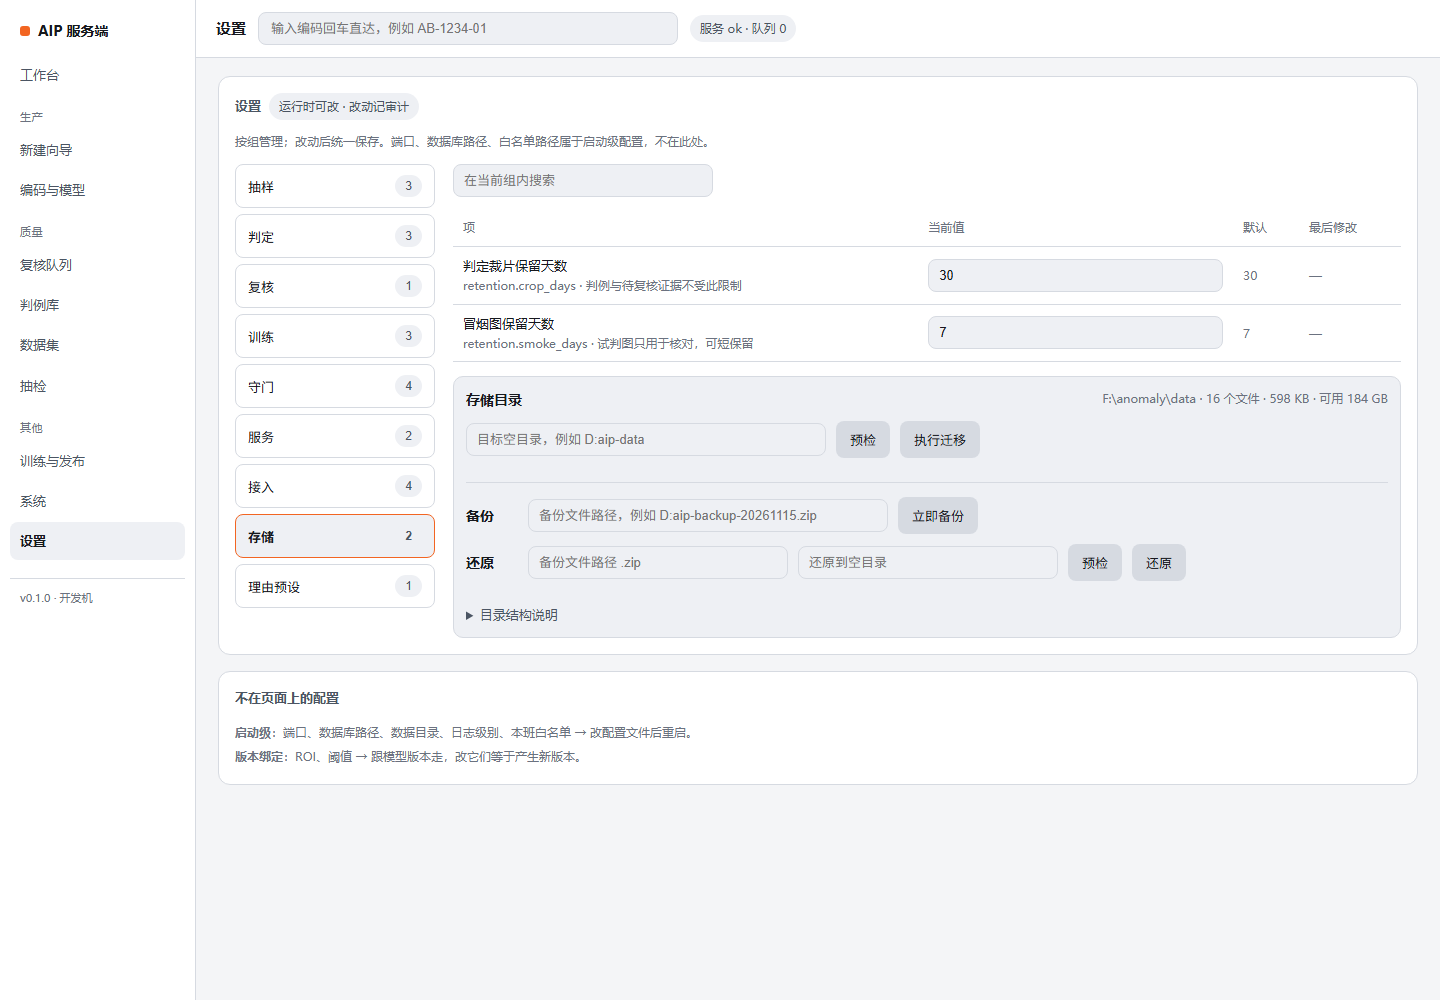
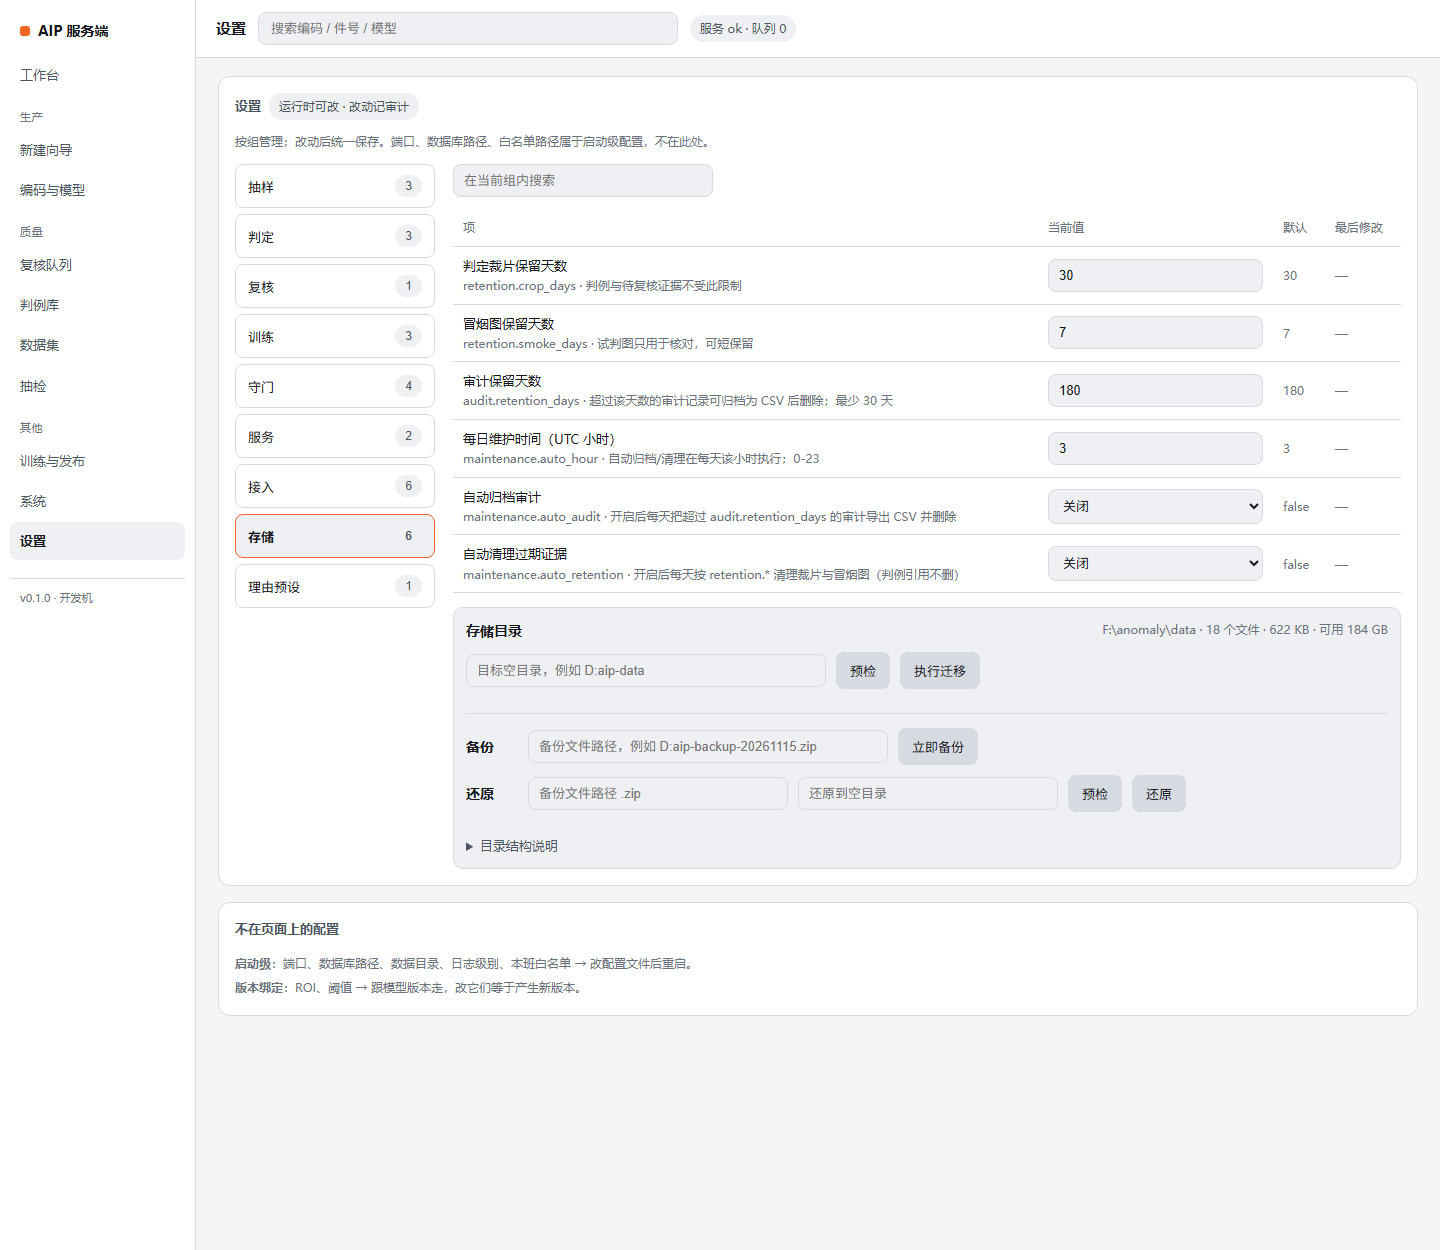
feat: 每日维护任务（自动归档/自动清理）与开关；存储迁移期间跳过

diff --git a/aip/web/admin.html b/aip/web/admin.html
@@ -354,7 +354,7 @@ const ACTIONS = {
   "case.archive": "归档判例", "case.restore": "恢复判例", "case.conflict": "判例冲突",
   "setting.update": "修改设置", "setting.bulk_update": "批量修改设置",
   "storage.backup": "备份数据", "storage.move": "迁移存储", "storage.restore": "还原数据",
-  "storage.retention": "清理过期证据", "audit.archive": "归档审计", "audit.import": "导入归档", "train.start": "启动训练", "train.cancel": "取消训练",
+  "storage.retention": "清理过期证据", "audit.archive": "归档审计", "audit.import": "导入归档", "maintenance.auto": "自动维护", "train.start": "启动训练", "train.cancel": "取消训练",
   "model.rollback": "回滚版本", "model.archive": "归档模型", "model.patch": "模型改名",
   "code.patch": "修改编码", "code.active": "启用/停用编码",
   "code.archive": "归档编码", "code.restore": "恢复编码", "family.create": "新建族",

diff --git a/aip/src/aip/maintenance_task.py b/aip/src/aip/maintenance_task.py
@@ -1,0 +1,106 @@
+"""每日维护任务：审计归档 + 过期证据清理。
+
+开关在「设置 → 存储」：
+- maintenance.auto_audit      自动归档审计（默认关）
+- maintenance.auto_retention  自动清理过期证据（默认关）
+- maintenance.auto_hour       每天几点执行（UTC，默认 3）
+
+只在 dev_server 启动时拉起一个守护线程；测试直接调 run_once，不启线程。
+"""
+
+from __future__ import annotations
+
+import sqlite3
+import threading
+import time
+from datetime import datetime, timedelta, timezone
+from pathlib import Path
+
+from . import audit_archive, retention
+from .audit import record
+from .settings import get_value
+from .storage import is_locked
+from .store import connect, tx
+
+
+def next_run(now: datetime, hour: int) -> datetime:
+    hour = max(0, min(23, hour))
+    target = now.replace(hour=hour, minute=0, second=0, microsecond=0)
+    if target <= now:
+        target += timedelta(days=1)
+    return target
+
+
+def run_once(conn: sqlite3.Connection, data_dir: Path, actor: str = "maintenance") -> dict:
+    if is_locked():
+        return {"skipped": "storage_maintenance"}
+
+    result: dict = {}
+    if bool(get_value(conn, "maintenance.auto_audit")):
+        try:
+            out = audit_archive.archive(
+                conn, data_dir, days=int(get_value(conn, "audit.retention_days")), actor=actor
+            )
+            result["audit_archived"] = out["archived"]
+            result["audit_path"] = out["path"]
+        except Exception as exc:  # noqa: BLE001
+            result["audit_error"] = str(exc)
+
+    if bool(get_value(conn, "maintenance.auto_retention")):
+        try:
+            out = retention.apply(
+                conn,
+                data_dir,
+                crop_days=int(get_value(conn, "retention.crop_days")),
+                smoke_days=int(get_value(conn, "retention.smoke_days")),
+                actor=actor,
+            )
+            result["retention_removed"] = out.get("removed", 0)
+            result["retention_freed"] = out.get("freed", 0)
+        except Exception as exc:  # noqa: BLE001
+            result["retention_error"] = str(exc)
+
+    if result:
+        with tx(conn):
+            record(conn, actor=actor, action="maintenance.auto", entity="data", payload=result)
+    return result
+
+
+class Scheduler(threading.Thread):
+    def __init__(self, db_path: str | Path) -> None:
+        super().__init__(daemon=True, name="aip-maintenance")
+        self.db_path = Path(db_path)
+        self._stop = threading.Event()
+
+    def stop(self) -> None:
+        self._stop.set()
+
+    def run(self) -> None:
+        while not self._stop.is_set():
+            conn = connect(self.db_path)
+            try:
+                hour = int(get_value(conn, "maintenance.auto_hour"))
+            except Exception:  # noqa: BLE001
+                hour = 3
+            conn.close()
+
+            now = datetime.now(timezone.utc)
+            wait = (next_run(now, hour) - now).total_seconds()
+            if self._stop.wait(min(wait, 3600)):
+                return
+            if wait > 3600:
+                continue  # 每小时醒一次重新计算，避免时钟漂移
+
+            conn = connect(self.db_path)
+            try:
+                run_once(conn, self.db_path.parent)
+            except Exception:  # noqa: BLE001 - 守护线程不能死
+                pass
+            finally:
+                conn.close()
+
+
+def start_scheduler(db_path: str | Path) -> Scheduler:
+    scheduler = Scheduler(db_path)
+    scheduler.start()
+    return scheduler

diff --git a/tests/test_maintenance_task.py b/tests/test_maintenance_task.py
@@ -1,0 +1,80 @@
+"""每日维护任务验收。"""
+
+from __future__ import annotations
+
+from datetime import datetime, timezone
+from pathlib import Path
+
+import pytest
+
+from aip import maintenance_task, store
+from aip.settings import set_many
+
+
+@pytest.fixture()
+def env(tmp_path):
+    data = tmp_path / "data"
+    data.mkdir()
+    conn = store.connect(data / "aip.db")
+    store.migrate(conn)
+    (data / "crops").mkdir()
+    yield conn, data
+    conn.close()
+
+
+def test_next_run_rolls_to_tomorrow():
+    now = datetime(2026, 11, 15, 10, 30, tzinfo=timezone.utc)
+    assert maintenance_task.next_run(now, 3) == datetime(2026, 11, 16, 3, tzinfo=timezone.utc)
+    assert maintenance_task.next_run(now, 23) == datetime(2026, 11, 15, 23, tzinfo=timezone.utc)
+
+
+def test_switches_off_do_nothing(env):
+    conn, data = env
+    assert maintenance_task.run_once(conn, data, actor="test") == {}
+    rows = conn.execute("SELECT count(*) c FROM audit_log").fetchone()["c"]
+    assert rows == 0
+
+
+def test_auto_audit_archives_when_enabled(env):
+    conn, data = env
+    conn.execute(
+        "INSERT INTO audit_log (actor, action, entity, created_at)"
+        " VALUES ('a','setting.update','setting','2020-01-01T00:00:00.000Z')"
+    )
+    set_many(conn, {"maintenance.auto_audit": True})
+
+    out = maintenance_task.run_once(conn, data, actor="test")
+    assert out["audit_archived"] == 1
+    assert Path(out["audit_path"]).exists()
+
+    actions = [r["action"] for r in conn.execute("SELECT action FROM audit_log").fetchall()]
+    assert "audit.archive" in actions
+    assert "maintenance.auto" in actions
+
+
+def test_auto_retention_removes_old_crop_when_enabled(env):
+    conn, data = env
+    img = data / "crops" / "old.png"
+    img.write_bytes(b"x" * 10)
+    old = datetime(2020, 1, 1, tzinfo=timezone.utc).strftime("%Y-%m-%dT%H:%M:%S.000Z")
+    import os
+
+    ts = datetime(2020, 1, 1, tzinfo=timezone.utc).timestamp()
+    os.utime(img, (ts, ts))
+    set_many(conn, {"maintenance.auto_retention": True, "retention.crop_days": 30})
+
+    out = maintenance_task.run_once(conn, data, actor="test")
+    assert out["retention_removed"] >= 1
+    assert not img.exists()
+
+
+def test_auto_runs_do_not_delete_audit_from_this_run(env):
+    conn, data = env
+    conn.execute(
+        "INSERT INTO audit_log (actor, action, entity, created_at)"
+        " VALUES ('a','setting.update','setting','2020-01-01T00:00:00.000Z')"
+    )
+    set_many(conn, {"maintenance.auto_audit": True})
+    maintenance_task.run_once(conn, data, actor="test")
+    latest = conn.execute("SELECT action FROM audit_log ORDER BY id DESC LIMIT 1").fetchone()
+    assert latest["action"] == "maintenance.auto"

diff --git a/aip/src/aip/settings.py b/aip/src/aip/settings.py
@@ -44,6 +44,12 @@ SPECS: tuple[Spec, ...] = (
          "试判图只用于核对，可短保留", 1, 365),
     Spec("audit.retention_days", "存储", "审计保留天数", "int", 180,
          "超过该天数的审计记录可归档为 CSV 后删除；最少 30 天", 30, 3650),
+    Spec("maintenance.auto_hour", "存储", "每日维护时间（UTC 小时）", "int", 3,
+         "自动归档/清理在每天该小时执行；0-23", 0, 23),
+    Spec("maintenance.auto_audit", "存储", "自动归档审计", "bool", False,
+         "开启后每天把超过 audit.retention_days 的审计导出 CSV 并删除"),
+    Spec("maintenance.auto_retention", "存储", "自动清理过期证据", "bool", False,
+         "开启后每天按 retention.* 清理裁片与冒烟图（判例引用不删）"),
     Spec("infer.require_part_no", "接入", "必须带件号", "bool", False,
          "开启后未带 part_no 的请求会被拒绝（追溯要求）"),
     Spec("infer.require_batch_no", "接入", "必须带批次", "bool", False,

diff --git a/scripts/dev_server.py b/scripts/dev_server.py
@@ -19,6 +19,7 @@ import uvicorn  # noqa: E402
 
 from aip import store  # noqa: E402
 from aip.api.app import create_app  # noqa: E402
+from aip.maintenance_task import start_scheduler  # noqa: E402
 
 
 def main() -> int:
@@ -43,6 +44,7 @@ def main() -> int:
     print(f"panel:  http://{args.host}:{args.port}/panel")
     print(f"docs:   http://{args.host}:{args.port}/docs")
 
+    start_scheduler(args.db)
     uvicorn.run(create_app(args.db), host=args.host, port=args.port, log_level="info")
     return 0
 

diff --git a/docs/designs/storage-layout.md b/docs/designs/storage-layout.md
@@ -55,7 +55,20 @@
 3. 导出成功后从 `audit_log` 删除；归档动作本身写一条 `audit.archive` 审计；
 4. 也可用 CLI：`python scripts/archive_audit.py [--days 90] [--apply]`。
 
-'归档是删库前先落盘，所以 CSV 就是事后追溯的唯一副本——要长期保存请把 `audit-archive/` 一并备份。
+''归档是删库前先落盘，所以 CSV 就是事后追溯的唯一副本——要长期保存请把 `audit-archive/` 一并备份。
+
+### 自动维护（开关）
+
+设置 → 存储：
+
+| 项 | 默认 | 说明 |
+|---|---|---|
+| `maintenance.auto_hour` | 3 | 每天几点执行（UTC 小时 0-23） |
+| `maintenance.auto_audit` | 关 | 每天按审计保留天数归档 |
+| `maintenance.auto_retention` | 关 | 每天按证据保留天数清理裁片/冒烟图 |
+
+服务启动时拉起守护线程；**存储迁移期间自动跳过**（写锁生效），每次执行写一条 `maintenance.auto` 审计。
+两个开关默认关闭——自动删数据必须显式打开。'
 
 **导回**：系统 → 「导入归档」或 `python scripts/archive_audit.py --import-csv <文件> [--apply]`。
 按 `(actor, action, entity, entity_id, created_at)` 去重，重复导入不会翻倍；预检不写库。'
